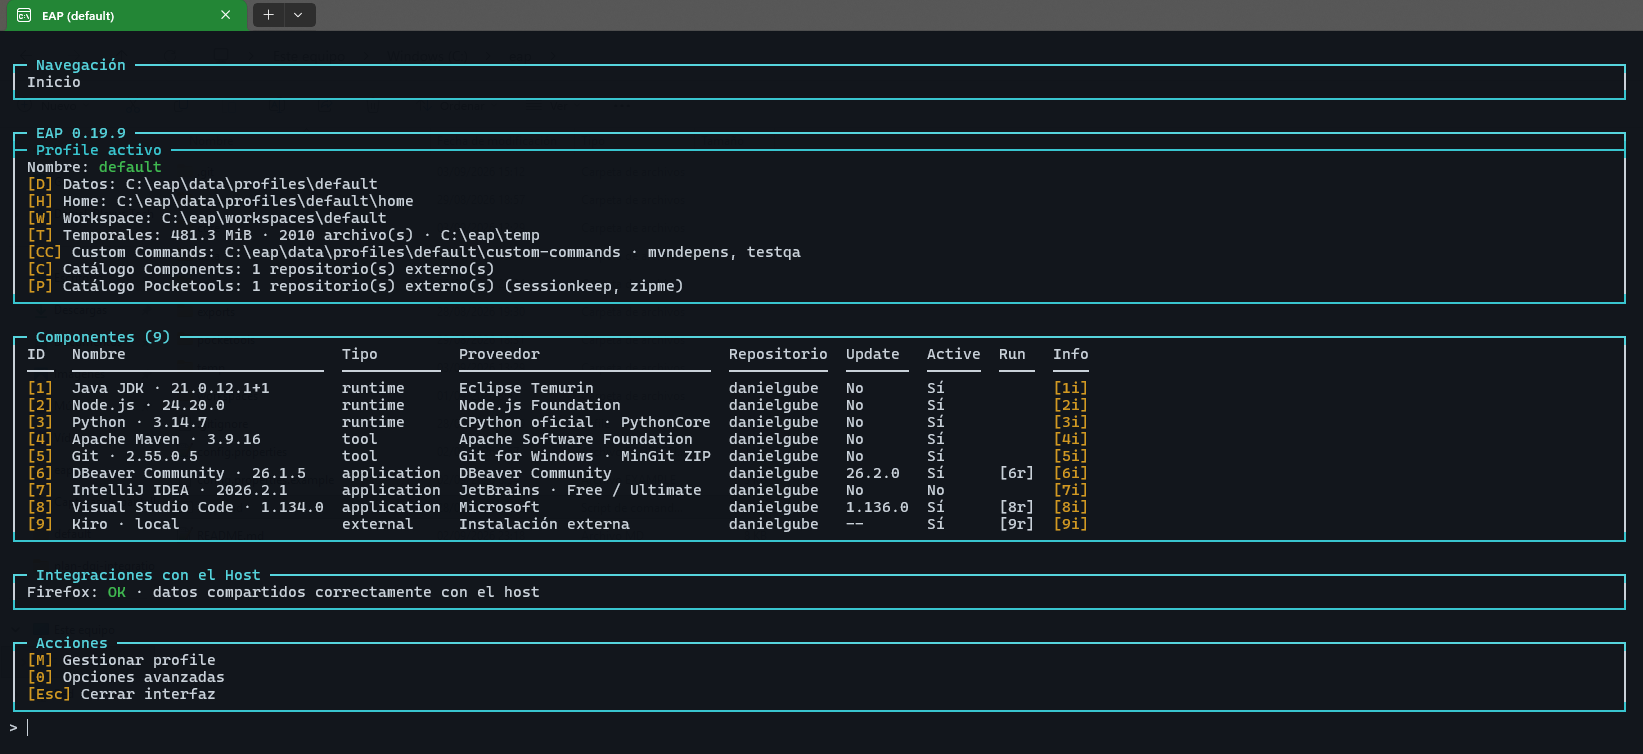
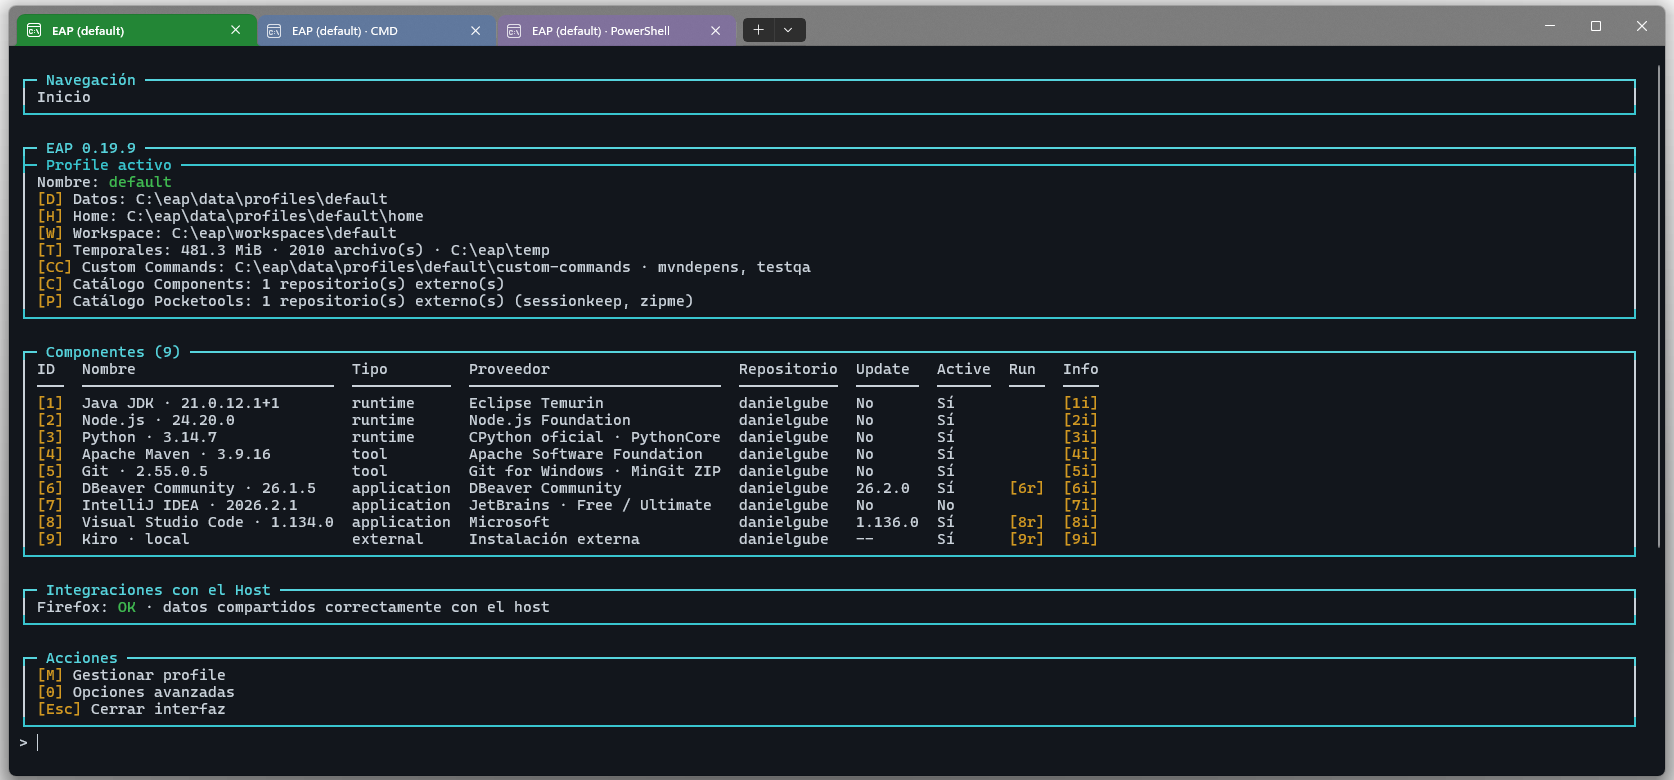
changed runners yellow

Changed region(s): [[0.0, 0.0, 1.0, 1.0]]

diff --git a/core/tests/test_eap.py b/core/tests/test_eap.py
@@ -6870,7 +6870,7 @@ class InterfaceTests(unittest.TestCase):
                 "danielgube",
                 "25",
                 "Sí",
-                "",
+                "[1r]",
                 "[1i]",
             ],
             [
@@ -6911,6 +6911,7 @@ class InterfaceTests(unittest.TestCase):
         self.assertIn("Java JDK · 21", visible)
         self.assertIn("Node.js · 24", visible)
         self.assertIn("\x1b[33m[1]\x1b[0m", colored)
+        self.assertIn("\x1b[33m[1r]\x1b[0m", colored)
         self.assertIn("\x1b[33m[1i]\x1b[0m", colored)
 
     def test_panel_color_is_suppressed_when_output_is_redirected(self) -> None:

diff --git a/core/app/eap/cli.py b/core/app/eap/cli.py
@@ -3627,7 +3627,7 @@ def _style(text: str, color: str, stream: Any | None = None) -> str:
 def _colorize_panel_row(row: str, content: str) -> str:
     if not _COLOR_ENABLED or not _stream_is_terminal(sys.stdout):
         return row
-    marker_pattern = re.compile(r"\[(?:\d+i?|[A-Z]{1,2}|Esc)\]")
+    marker_pattern = re.compile(r"\[(?:\d+[ir]?|[A-Z]{1,2}|Esc)\]")
     if content.startswith("┌─"):
         colored = _style(row, _ANSI_CYAN)
         return marker_pattern.sub(
